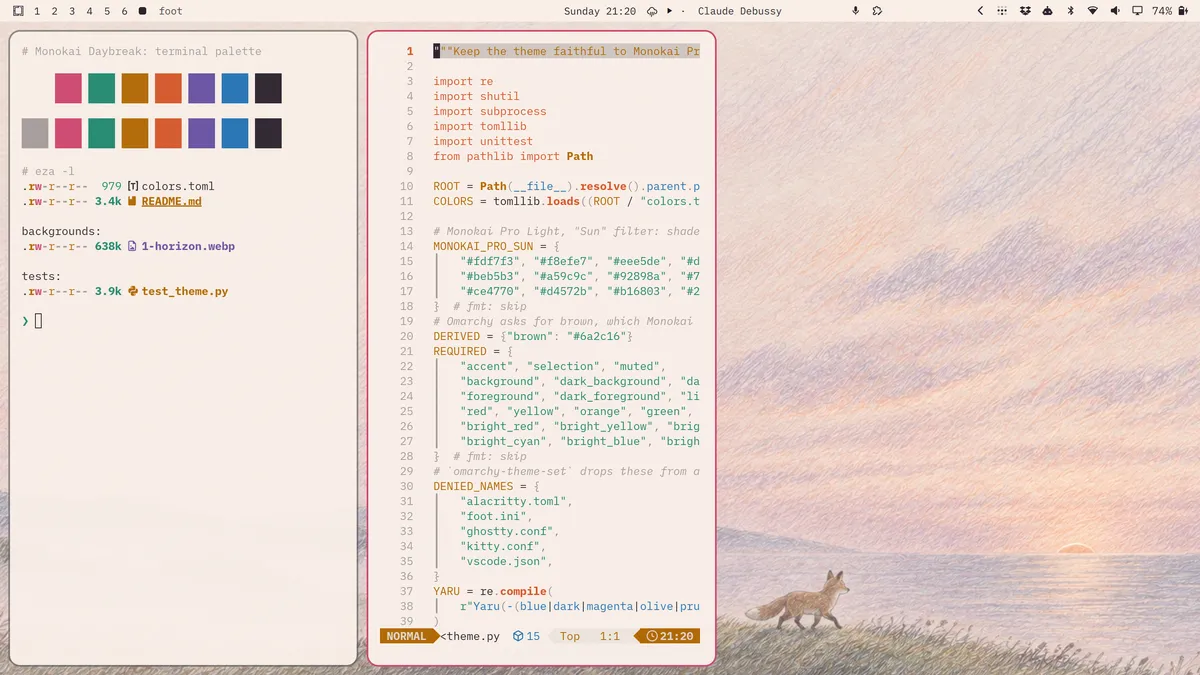
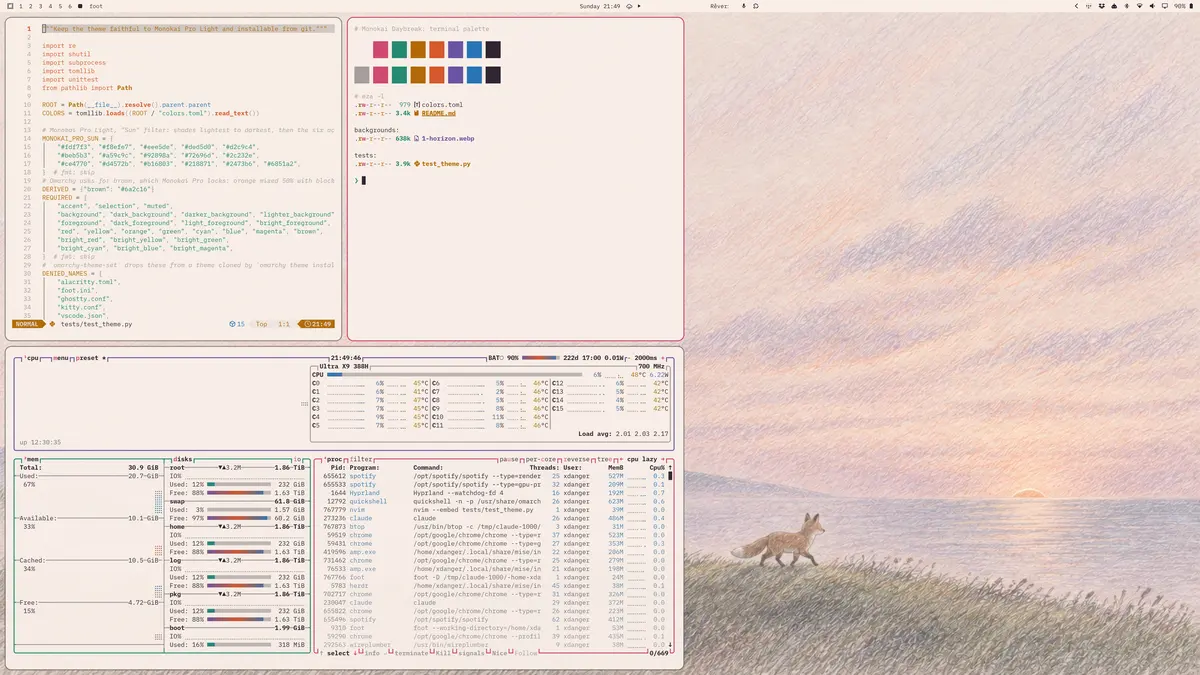
📝 docs(screenshots): retake on 5k with btop
- :memo: match the omarchy.org gallery, where btop and a real session sell the theme
- :memo: native 16:9 capture keeps the whole wallpaper scene beside the windows

Claude-Session: https://claude.ai/code/session_01KcMBmdTUYPsxUBktRW77dF

diff --git a/README.md b/README.md
@@ -1,6 +1,6 @@
 # Monokai Daybreak for Omarchy
 
-![Monokai Daybreak on Omarchy: a terminal and Neovim beside the pencil daybreak wallpaper](screenshots/desktop.webp)
+![Monokai Daybreak on Omarchy: Neovim, a terminal and btop beside the pencil daybreak wallpaper](screenshots/desktop.webp)
 
 Monokai Daybreak is an unofficial light Omarchy theme, installed as
 `monokai-daybreak`. It uses the [Monokai Pro](https://monokai.pro/) Light
